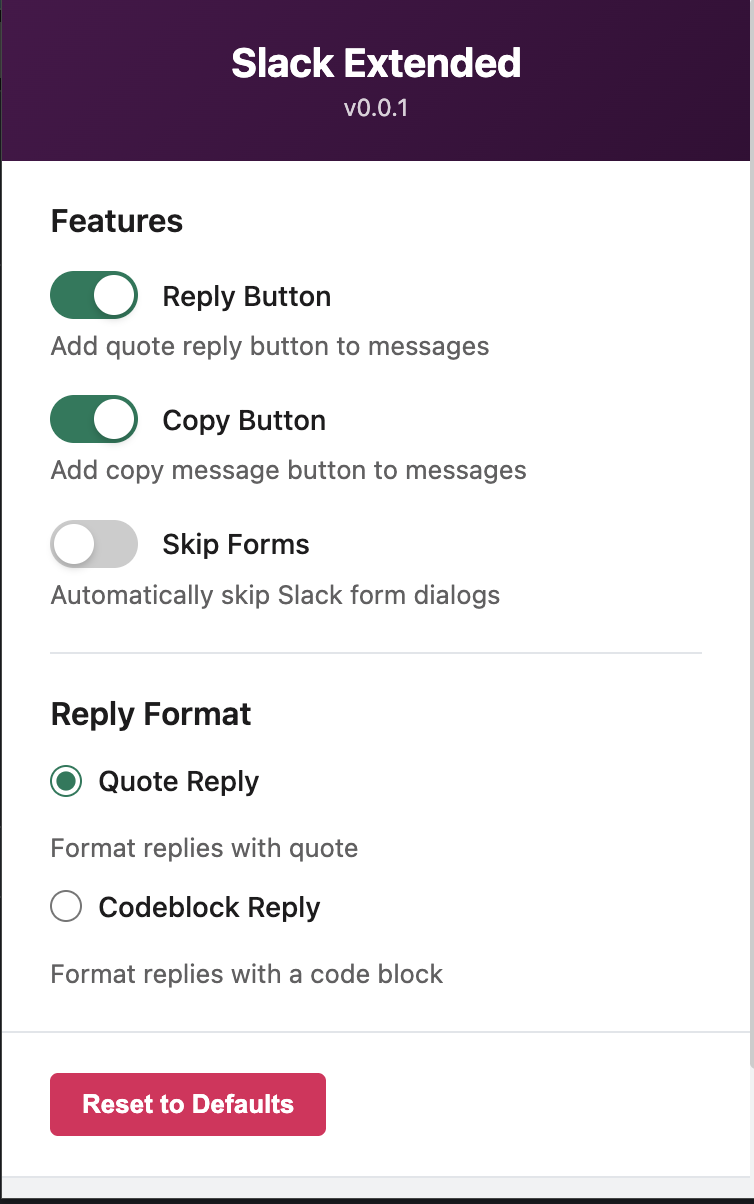
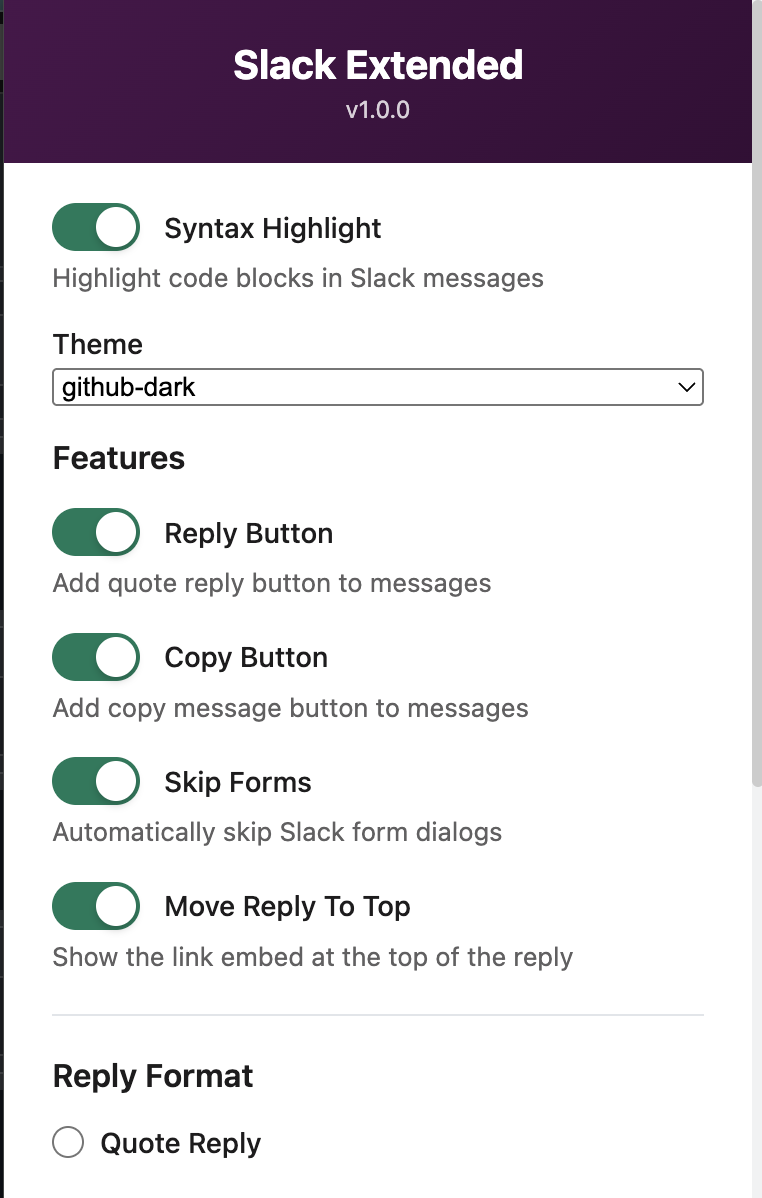
feat: use hjs

diff --git a/contents/syntax-highlight.tsx b/contents/syntax-highlight.tsx
@@ -1,33 +1,77 @@
 import { useStorage } from '@plasmohq/storage/hook';
-import githubDark from '@shikijs/themes/github-dark';
-import githubLight from '@shikijs/themes/github-light';
+import hljs from 'highlight.js/lib/core';
+import css from 'highlight.js/lib/languages/css';
+import go from 'highlight.js/lib/languages/go';
+import javascript from 'highlight.js/lib/languages/javascript';
+import json from 'highlight.js/lib/languages/json';
+import kotlin from 'highlight.js/lib/languages/kotlin';
+import php from 'highlight.js/lib/languages/php';
+import python from 'highlight.js/lib/languages/python';
+import rust from 'highlight.js/lib/languages/rust';
+import swift from 'highlight.js/lib/languages/swift';
+import typescript from 'highlight.js/lib/languages/typescript';
+import xml from 'highlight.js/lib/languages/xml';
 import { useEffect } from 'react';
-import { createHighlighterCore } from 'shiki/core';
-import { createJavaScriptRegexEngine } from 'shiki/engine/javascript';
 
 import { DEFAULT_SETTINGS } from '~util/settings';
 
-const jsEngine = createJavaScriptRegexEngine({ forgiving: true });
+hljs.registerLanguage('javascript', javascript);
+hljs.registerLanguage('typescript', typescript);
+hljs.registerLanguage('json', json);
+hljs.registerLanguage('python', python);
+hljs.registerLanguage('rust', rust);
+hljs.registerLanguage('go', go);
+hljs.registerLanguage('html', xml);
+hljs.registerLanguage('xml', xml);
+hljs.registerLanguage('css', css);
+hljs.registerLanguage('swift', swift);
+hljs.registerLanguage('kotlin', kotlin);
+hljs.registerLanguage('php', php);
 
-const shiki = createHighlighterCore({
-	themes: [githubDark, githubLight],
-	langs: [import('@shikijs/langs/javascript'), import('@shikijs/langs/typescript'), import('@shikijs/langs/json')],
-	engine: jsEngine,
-});
+const loadThemeCSS = (theme: string) => {
+	const existingLink = document.querySelector('link[data-highlight-theme]');
+	if (existingLink) existingLink.remove();
+
+	const link = document.createElement('link');
+	link.rel = 'stylesheet';
+	link.href = `https://cdnjs.cloudflare.com/ajax/libs/highlight.js/11.11.1/styles/${theme}.min.css`;
+	link.setAttribute('data-highlight-theme', theme);
+	document.head.appendChild(link);
+};
 
 const highlightSlackBlocks = async (theme: string) => {
+	loadThemeCSS(theme);
+
 	const selector = 'pre.c-mrkdwn__pre[data-stringify-type="pre"] > div.p-rich_text_block--no-overflow';
 	const nodes = document.querySelectorAll<HTMLElement>(selector);
 	for (const node of nodes) {
-		if (node.dataset.shikiHighlighted) continue;
+		if (node.dataset.highlightjsHighlighted) continue;
 		const text = node.textContent || '';
 		const lines = text.split('\n');
 		if (lines.length < 2) continue;
 		const lang = lines[0].trim().toLowerCase();
 		const code = lines.slice(1).join('\n');
-		const html = (await shiki).codeToHtml(code, { lang, theme });
-		node.innerHTML = html;
-		node.dataset.shikiHighlighted = '1';
+
+		const validLang = hljs.getLanguage(lang);
+		if (!validLang) {
+			node.dataset.highlightjsHighlighted = '1';
+			node.innerHTML = `<pre><code class="hljs">${text}</code></pre>`;
+			continue;
+		}
+
+		try {
+			const result = hljs.highlight(code, { language: validLang.name! });
+			node.innerHTML = `<pre><code class="hljs language-${lang}">${result.value}</code></pre>`;
+		} catch {
+			try {
+				const result = hljs.highlightAuto(code);
+				node.innerHTML = `<pre><code class="hljs">${result.value}</code></pre>`;
+			} catch {
+				node.innerHTML = `<pre><code class="hljs">${text}</code></pre>`;
+			}
+		}
+
+		node.dataset.highlightjsHighlighted = '1';
 	}
 };
 

diff --git a/popup.tsx b/popup.tsx
@@ -1,12 +1,83 @@
 import { useStorage } from '@plasmohq/storage/hook';
 import { useEffect, useState } from 'react';
-import { bundledThemes } from 'shiki';
 
 import { DEFAULT_SETTINGS } from '~util/settings';
 
 import { version } from './package.json';
 
 import './popup.css';
+
+const HIGHLIGHT_THEMES = [
+	'a11y-dark',
+	'a11y-light',
+	'agate',
+	'an-old-hope',
+	'androidstudio',
+	'arduino-light',
+	'arta',
+	'ascetic',
+	'atom-one-dark',
+	'atom-one-dark-reasonable',
+	'atom-one-light',
+	'brown-paper',
+	'codepen-embed',
+	'color-brewer',
+	'dark',
+	'default',
+	'devibeans',
+	'docco',
+	'far',
+	'felipec',
+	'foundation',
+	'github',
+	'github-dark',
+	'github-dark-dimmed',
+	'googlecode',
+	'gradient-dark',
+	'gradient-light',
+	'grayscale',
+	'hybrid',
+	'idea',
+	'intellij-light',
+	'ir-black',
+	'kimbie-dark',
+	'kimbie-light',
+	'lightfair',
+	'magula',
+	'mono-blue',
+	'monokai',
+	'monokai-sublime',
+	'night-owl',
+	'nnfx-dark',
+	'nnfx-light',
+	'nord',
+	'obsidian',
+	'panda-syntax-dark',
+	'panda-syntax-light',
+	'paraiso-dark',
+	'paraiso-light',
+	'pojoaque',
+	'qtcreator-dark',
+	'qtcreator-light',
+	'rainbow',
+	'rose-pine',
+	'rose-pine-dawn',
+	'rose-pine-moon',
+	'school-book',
+	'shades-of-purple',
+	'srcery',
+	'stackoverflow-dark',
+	'stackoverflow-light',
+	'sunburst',
+	'tokyo-night-dark',
+	'tokyo-night-light',
+	'tomorrow-night-blue',
+	'tomorrow-night-bright',
+	'vs',
+	'vs2015',
+	'xcode',
+	'xt256',
+];
 
 function App() {
 	const [enableSyntaxHighlight, setEnableSyntaxHighlight] = useStorage<boolean>(
@@ -20,7 +91,7 @@ function App() {
 	const [themeOptions, setThemeOptions] = useState<string[]>([]);
 
 	useEffect(() => {
-		setThemeOptions(Object.keys(bundledThemes));
+		setThemeOptions(HIGHLIGHT_THEMES);
 	}, []);
 	const [enableReplyButton, setEnableReplyButton] = useStorage<boolean>(
 		'enableReplyButton',
@@ -138,6 +209,19 @@ function App() {
 						</label>
 						<p className="setting-description">Automatically skip Slack form dialogs</p>
 					</div>
+					<div className="setting">
+						<label className="toggle">
+							<input
+								checked={moveReplyToTop}
+								disabled={saving}
+								onChange={(e) => setMoveReplyToTop(e.target.checked)}
+								type="checkbox"
+							/>
+							<span className="toggle-slider"></span>
+							<span className="toggle-label">Move Reply To Top</span>
+						</label>
+						<p className="setting-description">Show the link embed at the top of the reply</p>
+					</div>
 				</div>
 				{enableReplyButton && (
 					<div className="section">
@@ -182,21 +266,6 @@ function App() {
 								<p className="setting-description">Format replies as a Slack embed with a link</p>
 							</div>
 						</div>
-						{replyFormat === 'link' && (
-							<div className="setting">
-								<label className="toggle">
-									<input
-										checked={moveReplyToTop}
-										disabled={saving}
-										onChange={(e) => setMoveReplyToTop(e.target.checked)}
-										type="checkbox"
-									/>
-									<span className="toggle-slider"></span>
-									<span className="toggle-label">Move Reply To Top</span>
-								</label>
-								<p className="setting-description">Show the link embed at the top of the reply</p>
-							</div>
-						)}
 					</div>
 				)}
 			</div>

diff --git a/README.md b/README.md
@@ -2,6 +2,7 @@
 
 A chrome extension that enhances the Slack web app with additional features.
 ![quote](/.github/quote.png)
+![syntax highlight](/.github/syntax.png)
 ![popup](/.github/popup.png)
 
 ## Install
